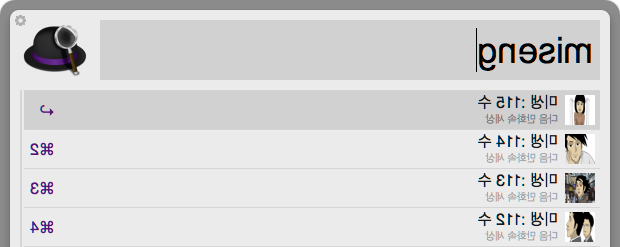
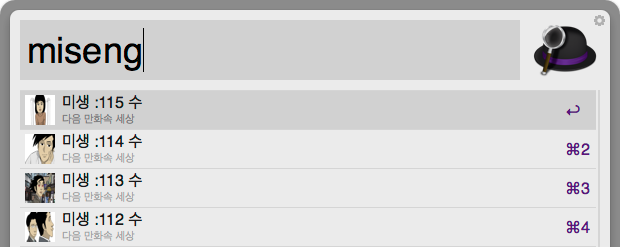
change miseng screenshot

diff --git a/miseng/README.md b/miseng/README.md
@@ -2,7 +2,7 @@
 
 Comic Viewer - 미생 (Korean Webtoon)
 
-![Demo screenshot](https://raw.github.com/jmjeong/alfred-extension/master/miseng/screenshot.jpg)
+![Demo screenshot](https://raw.github.com/jmjeong/alfred-extension/master/miseng/screenshot.png)
 
 ###  Usage
 
